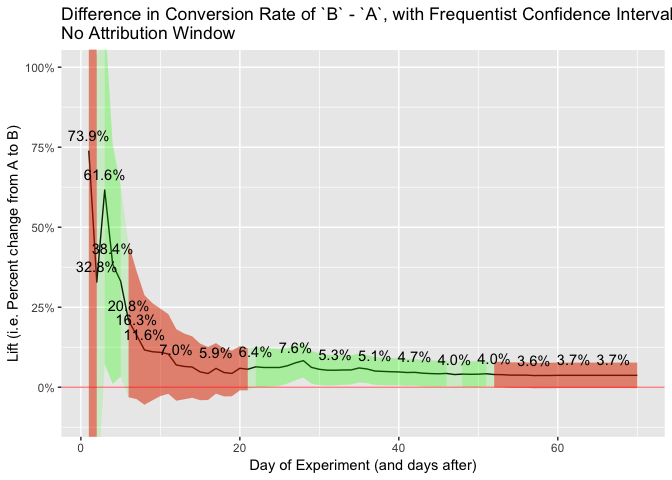
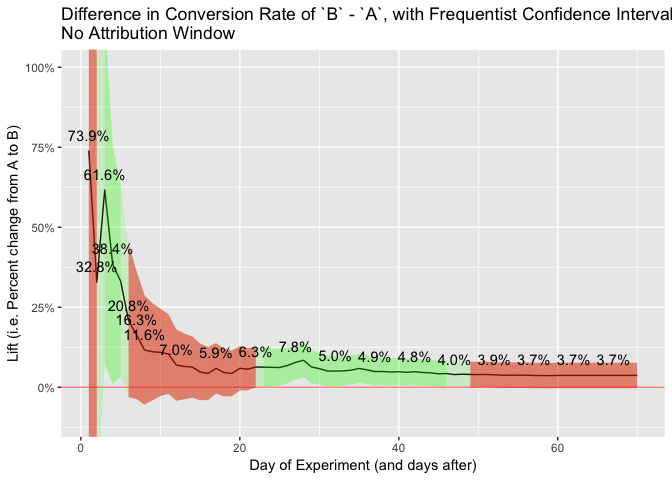
AWS

Changed region(s): [[0.3438, 0.6875, 0.6562, 0.8125], [0.6875, 0.7188, 0.8125, 0.8125]]

diff --git a/attribution-window-effects/attribution-window-simulation.md b/attribution-window-effects/attribution-window-simulation.md
@@ -240,8 +240,8 @@ influences the conversion rate of the people assigned to various days.
 
 ![](attribution-window-simulation_files/figure-markdown_strict/unnamed-chunk-7-1.png)
 
-*This is the key point*. The longer you give people in the experiment to
-convert, the less effect the **lift** from experiment has, and the
+**This is the key point**. The longer you give people in the experiment
+to convert, the less effect the **lift** from experiment has, and the
 closer the conversion rate becomes to the `A` group.
 
 No such effect exists in the `A` group because they maintain the
@@ -271,12 +271,12 @@ they saw the experiment, seems to dilute the conversion rate. Again,
 more and more people are converting at the same conversion rate as the
 `A` group.
 
-Now, `B`'s conversion rate of `20.7%` is a only `3.20%` increase over
-the **true** baseline conversion rate of `20.0%`, and a `3.58%` increase
+Now, `B`'s conversion rate of `20.7%` is a only `3.18%` increase over
+the **true** baseline conversion rate of `20.0%`, and a `3.56%` increase
 over `A`'s conversion rate of `19.9%`, which hasn't changed since the
 last simulation.
 
-The P-value is no longer statistically significant: `0.0674334`
+The P-value is no longer statistically significant: `0.0692969`
 
 Attribution Windows
 -------------------
